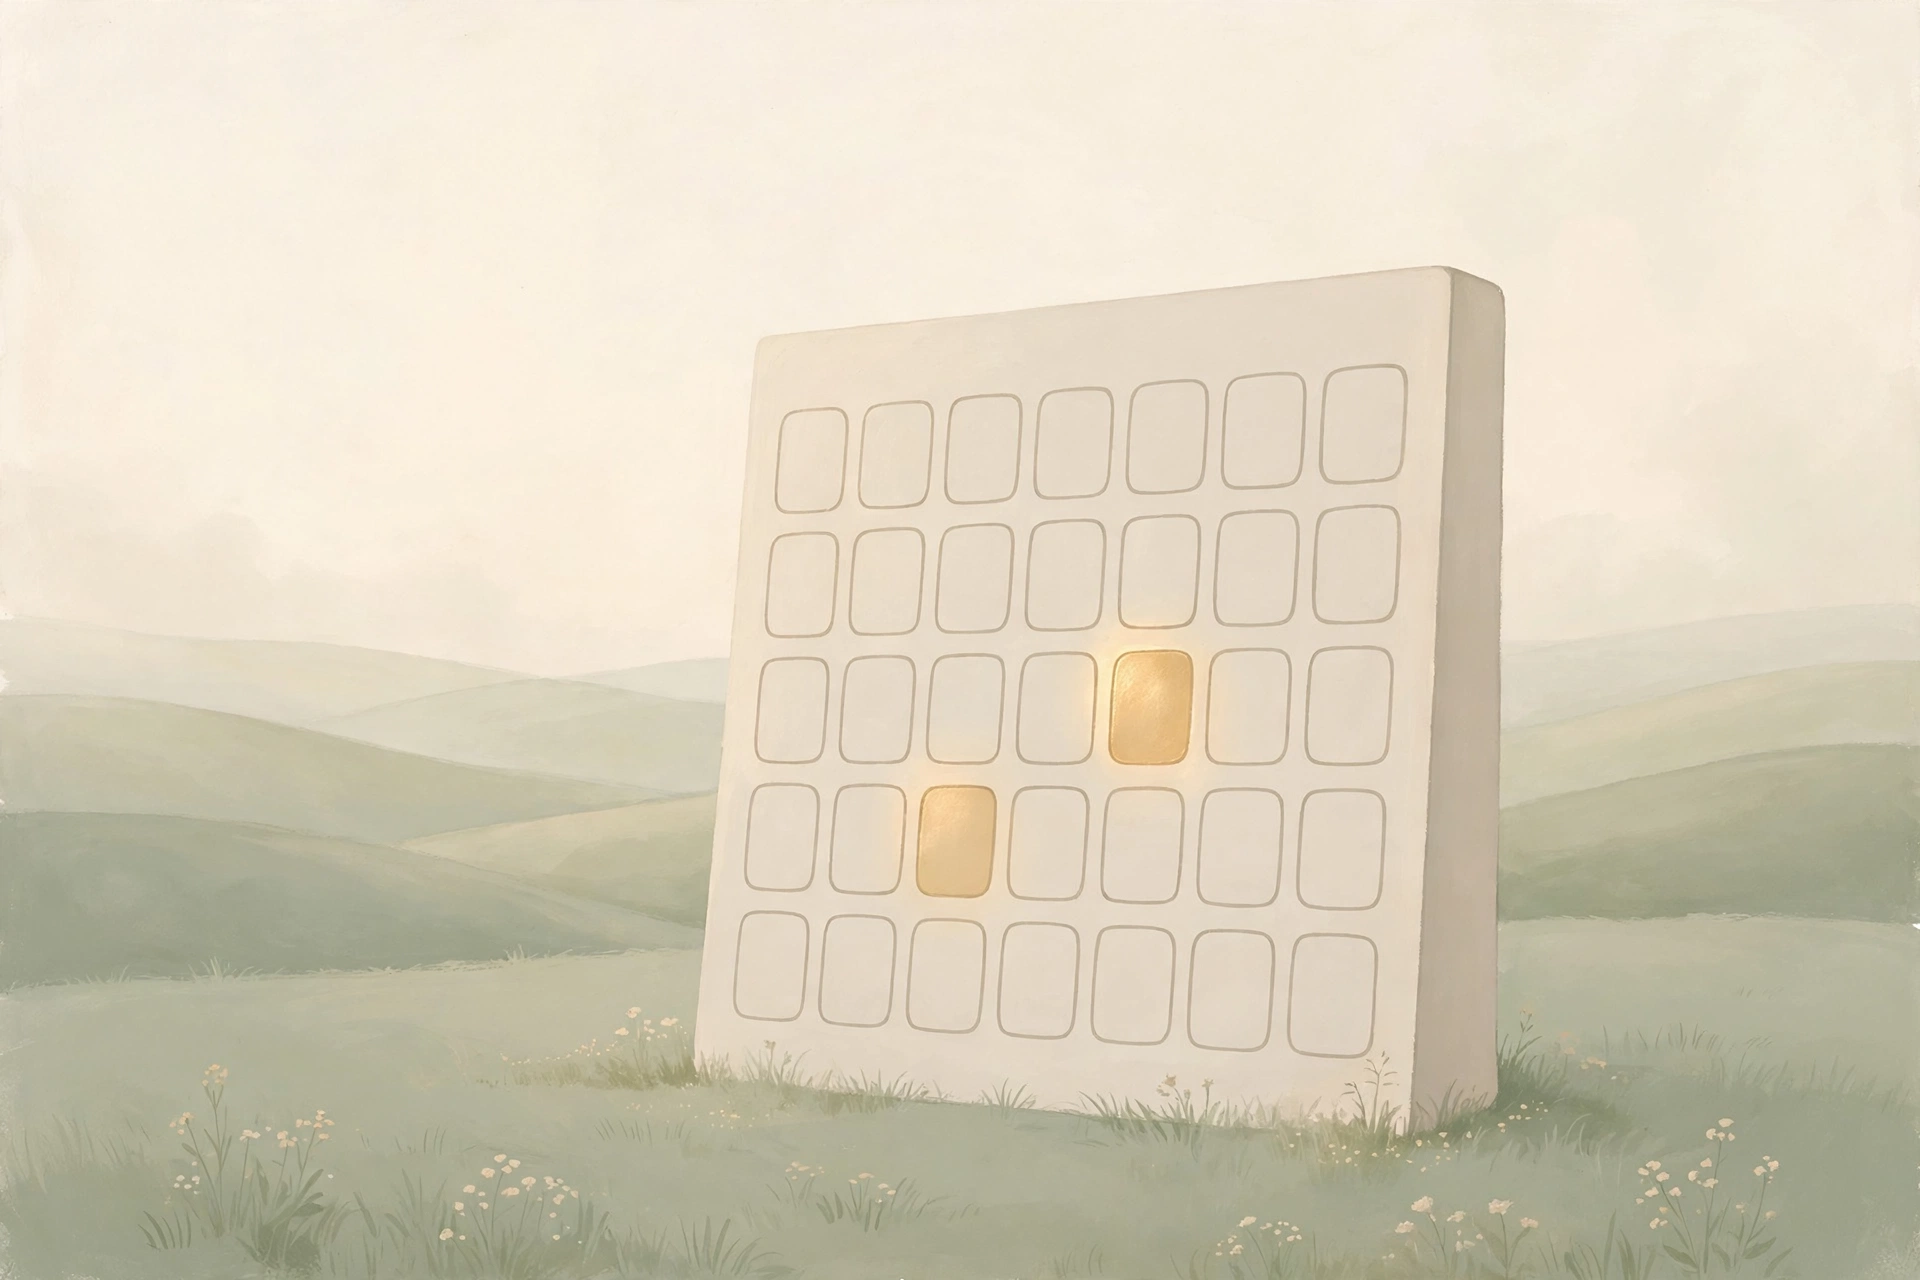
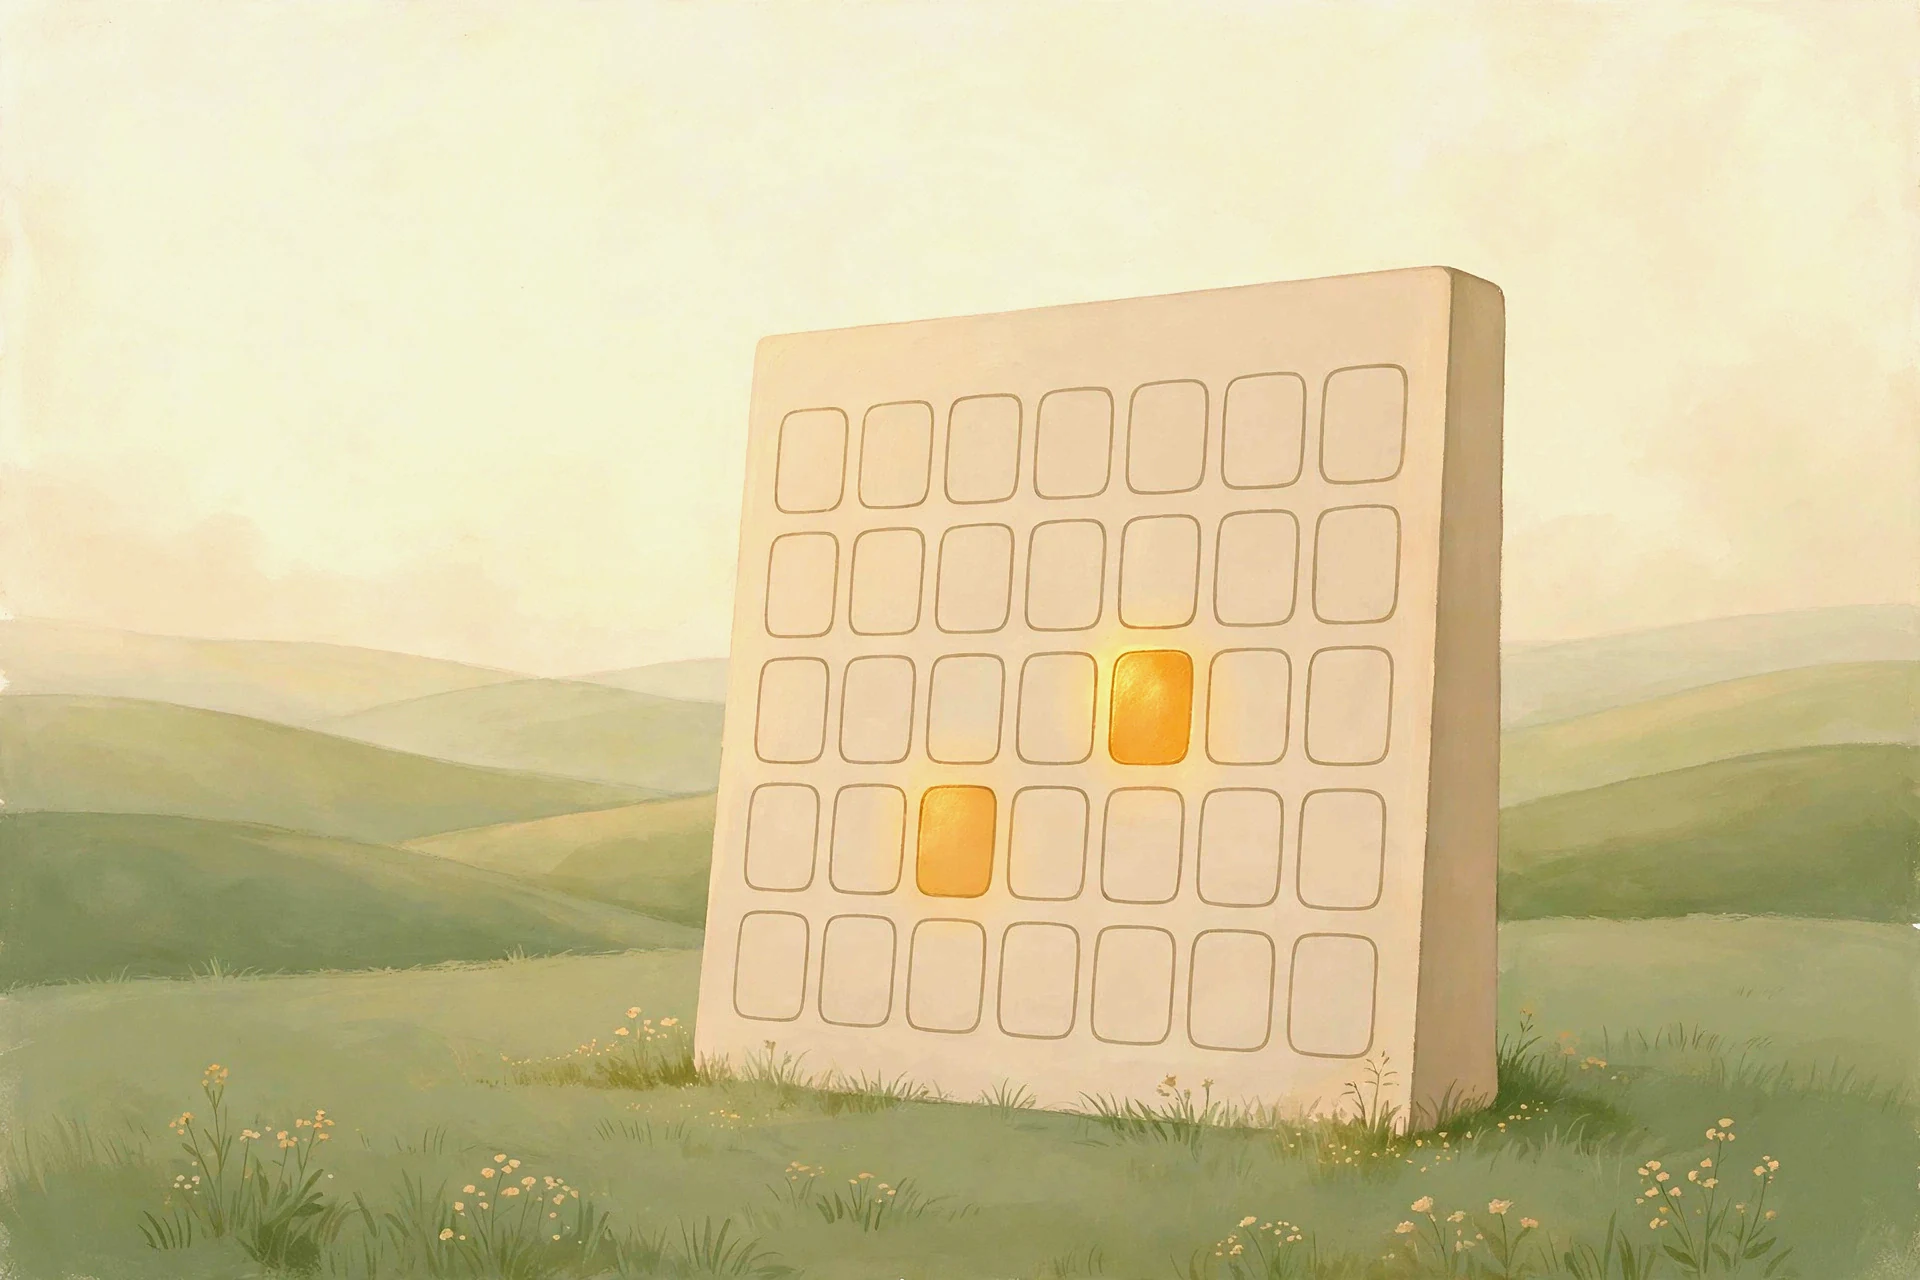
Ronde 3 grafik: lukisan Rolling Libur diperkuat kontrasnya, grain dinding nyata, patung batu bertekstur, kamera mundur, balok oculus jadi ring, contact shadow, judul ruangan langsung tampil

diff --git a/src/components/gallery-core.ts b/src/components/gallery-core.ts
@@ -238,8 +238,6 @@ export function startGallery(projects: Project[]): GalleryApi {
           }
           g.fillStyle = 'rgba(90,64,38,.4)';
           g.fillRect(0, y + h/rows - 2, w, 2);
-          var seam = Math.random() * w;
-          g.fillRect(seam, y, 2, h/rows - 2);
         }
         /* fine speckle so the floor is not a flat wash up close */
         for (var s2 = 0; s2 < 2600; s2++){
@@ -248,19 +246,19 @@ export function startGallery(projects: Project[]): GalleryApi {
         }
       }, 6, 6);
       var wallTex = canvasTex(1024, 512, function(g, w, h){
-        g.fillStyle = '#ede5d5'; g.fillRect(0,0,w,h);
-        /* plaster grain: faint speckle + vertical streaks so the wall reads as a surface */
-        for (var n = 0; n < 2400; n++){
-          g.fillStyle = 'rgba(120,100,70,' + (0.02 + Math.random()*0.05) + ')';
-          g.fillRect(Math.random()*w, Math.random()*h, 1.5, 1.5);
+        g.fillStyle = '#e9dcc2'; g.fillRect(0,0,w,h);
+        /* plaster grain: speckle + vertical streaks so the wall reads as a surface */
+        for (var n = 0; n < 3600; n++){
+          g.fillStyle = 'rgba(120,100,70,' + (0.05 + Math.random()*0.08) + ')';
+          g.fillRect(Math.random()*w, Math.random()*h, 2.5, 2.5);
         }
-        for (var v = 0; v < 26; v++){
-          g.strokeStyle = 'rgba(120,100,70,' + (0.02 + Math.random()*0.03) + ')';
+        for (var v = 0; v < 30; v++){
+          g.strokeStyle = 'rgba(120,100,70,' + (0.03 + Math.random()*0.04) + ')';
           g.lineWidth = 2 + Math.random()*5;
           var vx = Math.random()*w;
           g.beginPath(); g.moveTo(vx, 0); g.lineTo(vx + (Math.random()*14-7), h); g.stroke();
         }
-        g.strokeStyle = 'rgba(122,102,74,.17)'; g.lineWidth = 8;
+        g.strokeStyle = 'rgba(122,102,74,.22)'; g.lineWidth = 8;
         /* Each arc is drawn three times (x-w, x, x+w) so the motif tiles
            seamlessly — before, the repeat seam showed as a vertical line. */
         for (var i = -4; i < 14; i++){
@@ -312,6 +310,46 @@ export function startGallery(projects: Project[]): GalleryApi {
         t.colorSpace = THREE.SRGBColorSpace;
         t.anisotropy = Math.min(8, renderer.capabilities.getMaxAnisotropy());
         return t;
+      }
+      /* granite-ish speckle for the stone knot: flat colour read as plastic */
+      var stoneTex = (function(){
+        var c = document.createElement('canvas'); c.width = c.height = 256;
+        var g = c.getContext('2d');
+        g.fillStyle = '#b3a184'; g.fillRect(0, 0, 256, 256);
+        for (var i = 0; i < 2600; i++){
+          var v = Math.random();
+          g.fillStyle = v < 0.5 ? 'rgba(70,58,40,' + (0.08 + Math.random()*0.16) + ')'
+                                : 'rgba(235,225,200,' + (0.08 + Math.random()*0.14) + ')';
+          g.fillRect(Math.random()*256, Math.random()*256, 1 + Math.random()*2.2, 1 + Math.random()*2.2);
+        }
+        for (var j = 0; j < 9; j++){
+          g.strokeStyle = 'rgba(80,66,44,' + (0.1 + Math.random()*0.12) + ')';
+          g.lineWidth = 1 + Math.random();
+          g.beginPath();
+          var sx = Math.random()*256, sy = Math.random()*256;
+          g.moveTo(sx, sy);
+          g.bezierCurveTo(sx + 40, sy + (Math.random()*40-20), sx + 90, sy + (Math.random()*40-20), sx + 140, sy + (Math.random()*30-15));
+          g.stroke();
+        }
+        var t = new THREE.CanvasTexture(c);
+        t.colorSpace = THREE.SRGBColorSpace;
+        t.wrapS = t.wrapT = THREE.RepeatWrapping; t.repeat.set(2, 2);
+        t.anisotropy = Math.min(8, renderer.capabilities.getMaxAnisotropy());
+        return t;
+      })();
+      /* soft fake contact shadow: grounds a plinth where no shadow light reaches */
+      var contactTex = (function(){
+        var c = document.createElement('canvas'); c.width = c.height = 256;
+        var g = c.getContext('2d');
+        var rg = g.createRadialGradient(128, 128, 8, 128, 128, 128);
+        rg.addColorStop(0, 'rgba(24,16,8,0.5)'); rg.addColorStop(0.65, 'rgba(24,16,8,0.22)'); rg.addColorStop(1, 'rgba(24,16,8,0)');
+        g.fillStyle = rg; g.fillRect(0, 0, 256, 256);
+        return new THREE.CanvasTexture(c);
+      })();
+      function contactShadow(x, y, z, r, parent){
+        var m = new THREE.Mesh(new THREE.PlaneGeometry(r*2, r*2),
+          new THREE.MeshBasicMaterial({ map: contactTex, transparent:true, depthWrite:false }));
+        m.rotation.x = -Math.PI/2; m.position.set(x, y, z); parent.add(m);
       }
       function dotSprite(){
         var c = document.createElement('canvas'); c.width = c.height = 64;
@@ -369,19 +407,17 @@ export function startGallery(projects: Project[]): GalleryApi {
         new THREE.MeshBasicMaterial({ map: skyTex }));
       sky.rotation.x = Math.PI/2; sky.position.y = HALL_H + 0.72;
       hall.add(sky);
-      for (var b = 0; b < 3; b++){
-        var beam = new THREE.Mesh(new THREE.BoxGeometry(6.4, 0.16, 0.3), MAT.woodDark);
-        beam.position.y = HALL_H + 0.42; beam.rotation.y = b * Math.PI/3;
-        beam.castShadow = true;
-        hall.add(beam);
-      }
+      var oculusRing = new THREE.Mesh(new THREE.TorusGeometry(3.12, 0.07, 12, 72), MAT.woodDark);
+      oculusRing.rotation.x = Math.PI/2; oculusRing.position.y = HALL_H + 0.06;
+      hall.add(oculusRing);
 
       /* center plinth + rotating stone knot */
       var plinth = new THREE.Mesh(new THREE.CylinderGeometry(0.85, 0.95, 0.5, 40), MAT.stone);
       plinth.position.y = 0.25; plinth.castShadow = plinth.receiveShadow = true;
       hall.add(plinth);
+      contactShadow(0, 0.006, 0, 1.5, hall);
       var knot = new THREE.Mesh(new THREE.TorusKnotGeometry(0.34, 0.12, 120, 16),
-        new THREE.MeshStandardMaterial({ color:0xb9a888, roughness:.55 }));
+        new THREE.MeshStandardMaterial({ map:stoneTex, bumpMap:stoneTex, bumpScale:0.6, roughness:.85 }));
       knot.scale.setScalar(0.62);
       knot.position.y = 0.82; knot.castShadow = true;
       hall.add(knot);
@@ -541,6 +577,7 @@ export function startGallery(projects: Project[]): GalleryApi {
 
         var rPlinth = new THREE.Mesh(new THREE.CylinderGeometry(1.05, 1.12, 0.14, 44), MAT.plinth);
         rPlinth.position.set(0, 0.07, -0.4); rPlinth.castShadow = rPlinth.receiveShadow = true; room.add(rPlinth);
+        contactShadow(0, 0.006, -0.4, 1.7, room);
         var sculpt = buildSculpture(p);
         sculpt.position.set(0, 0.14, -0.4); room.add(sculpt);
         markClickable(sculpt, { type:'detail', id:p.id });
@@ -556,9 +593,9 @@ export function startGallery(projects: Project[]): GalleryApi {
       /* ================= CAMERA RIG ================= */
       var mode = 'hall';           // 'hall' | 'room' | 'transit'
       var currentRoom = null;
-      var yaw = 0.12, pitch = 0.06, targetYaw = 0.12, targetPitch = 0.06;
+      var yaw = 0.12, pitch = 0.10, targetYaw = 0.12, targetPitch = 0.10;
       var roomYaw = 0, roomPitch = 0, tRoomYaw = 0, tRoomPitch = 0;
-      var camPos = new THREE.Vector3(0, 1.9, 2.6), camTarget = new THREE.Vector3();
+      var camPos = new THREE.Vector3(0, 1.9, 3.1), camTarget = new THREE.Vector3();
       var transit = null;
       var lastInteract = performance.now();
       var reduced = window.matchMedia('(prefers-reduced-motion: reduce)').matches;
@@ -570,7 +607,7 @@ export function startGallery(projects: Project[]): GalleryApi {
         mode = 'transit';
       }
       function hallView(){
-        var base = new THREE.Vector3(0, 1.9, 2.6);
+        var base = new THREE.Vector3(0, 1.9, 3.1);
         var d = new THREE.Vector3(Math.sin(yaw)*Math.cos(pitch), Math.sin(pitch), -Math.cos(yaw)*Math.cos(pitch));
         return { pos:base, tgt:d.multiplyScalar(10).add(base) };
       }
@@ -579,15 +616,15 @@ export function startGallery(projects: Project[]): GalleryApi {
         var p = byId(id), r = rooms[id];
         if (!p || !r || mode === 'transit') return;
         closeMenu();
+        roomTitleText.textContent = p.world;
+        roomTitle.classList.add('show');
+        enterLabel.textContent = 'Jelajahi ' + p.name;
+        actionBar.classList.add('show');
+        backBtn.classList.add('show');
+        hint.classList.add('hide');
         flyTo(r.camPos, r.camTarget, reduced ? 0.4 : 1.9, function(){
           mode = 'room'; currentRoom = id;
           tRoomYaw = 0; tRoomPitch = 0; roomYaw = 0; roomPitch = 0;
-          roomTitleText.textContent = p.world;
-          roomTitle.classList.add('show');
-          enterLabel.textContent = 'Jelajahi ' + p.name;
-          actionBar.classList.add('show');
-          backBtn.classList.add('show');
-          hint.classList.add('hide');
         });
       }
       function leaveRoom(){

diff --git a/src/app/globals.css b/src/app/globals.css
@@ -63,7 +63,7 @@
       }
       #roomTitle.show{ opacity:1; }
       #roomTitle h2{
-        margin:0; font-family:var(--serif); font-weight:500; text-align:center;
+        margin:0; font-family:var(--serif); font-weight:500; text-shadow:0 1px 14px rgba(20,14,6,.55), 0 0 4px rgba(20,14,6,.35); text-align:center;
         font-size:clamp(3rem, 11vw, 9.5rem); line-height:.95; color:rgba(250,247,239,.92);
         text-shadow:0 2px 34px rgba(30,26,18,.45);
       }
@@ -219,8 +219,8 @@
         width:3rem; height:3rem; font-size:1.15rem; color:var(--ink);
       }
       .story{ max-width:760px; margin:0 auto; padding:0 1.4rem; }
-      .story section{ padding:16vh 0 4vh; }
-      .story section:first-child{ padding-top:12vh; }
+      .story section{ padding:8vh 0 4vh; }
+      .story section:first-child{ padding-top:8vh; }
       .story .line{
         font-family:var(--serif); font-size:clamp(1.7rem, 4.6vw, 2.7rem);
         line-height:1.25; font-weight:500; margin:0;
